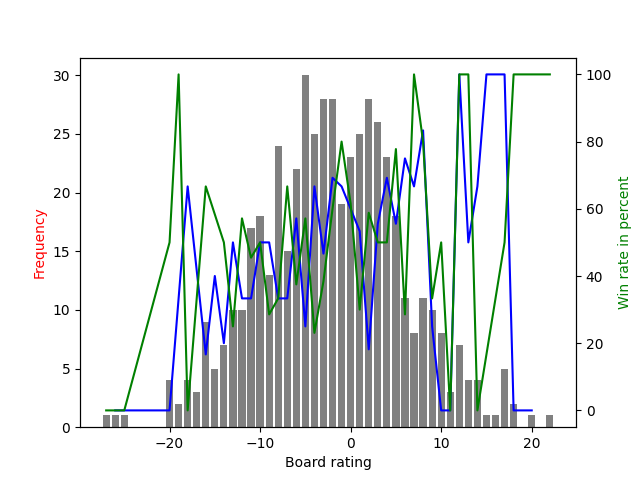
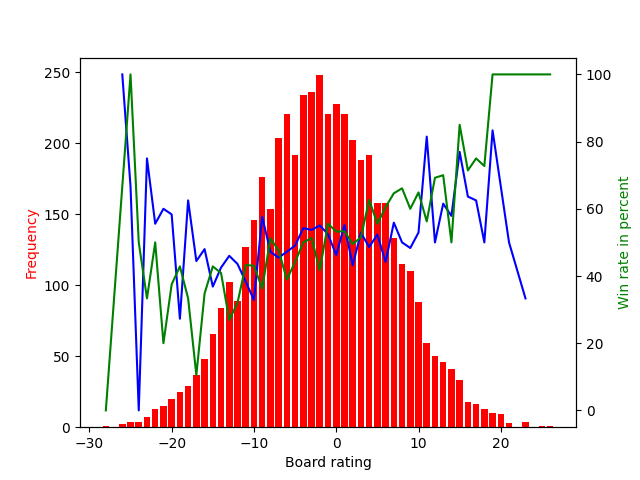
Board rating

diff --git a/src/pokemon/bot/evaluation/unfair_matches/unfair_matches.py b/src/pokemon/bot/evaluation/unfair_matches/unfair_matches.py
@@ -237,7 +237,7 @@ async def main():
 
         logger.info(f'\n\n\nPlayed: {i}\n\n\n')
 
-        if i % 15 == 1 and i > 1 or i == 10 or i == 100:
+        if i % 300 == 1 and i > 1 or i == 10 or i == 100:
             collector.store_results()
             collector.plot_results()
 
